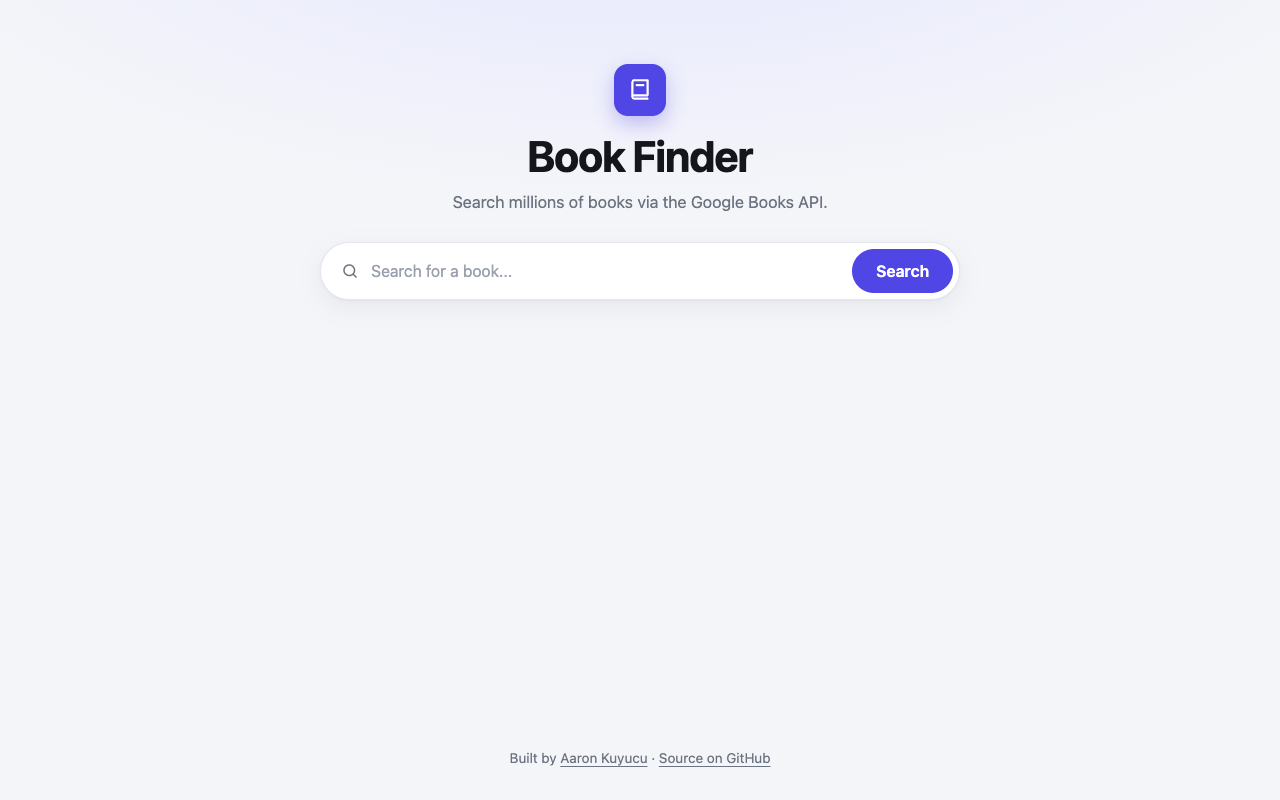
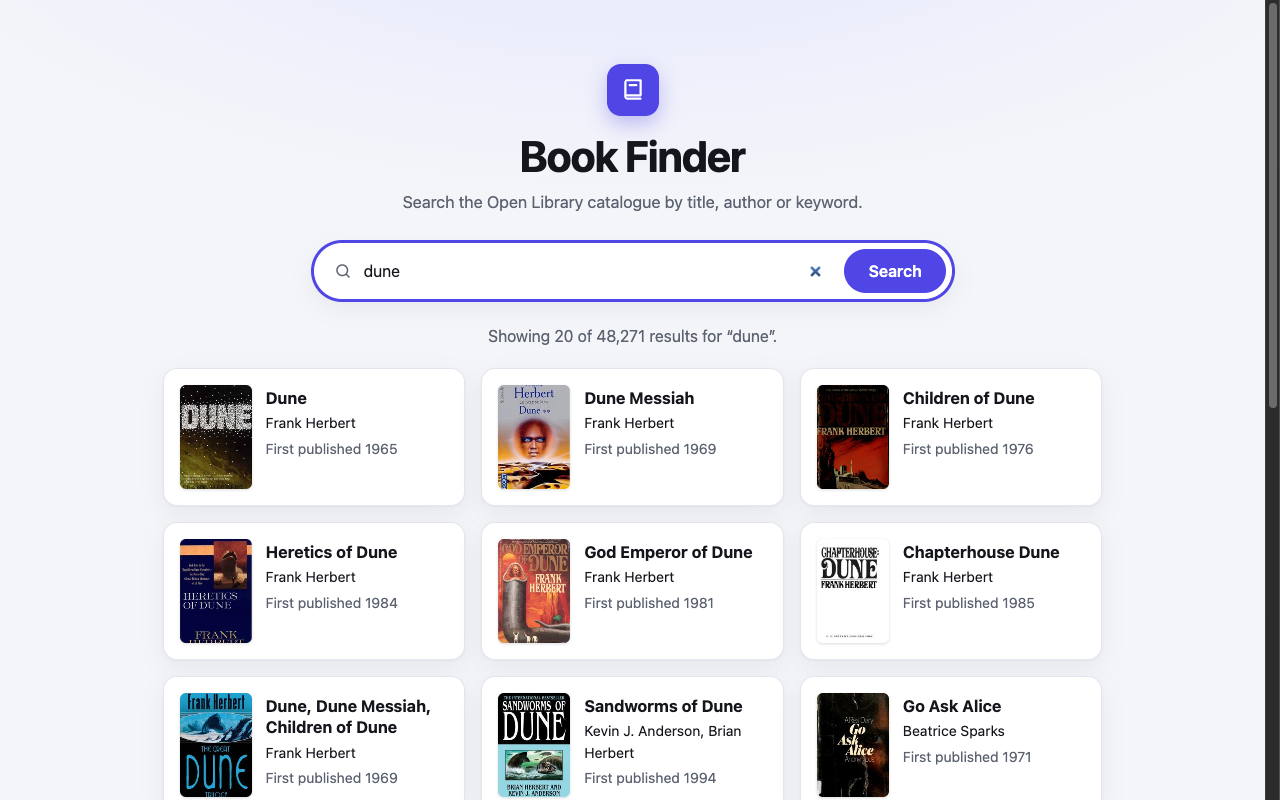
docs: describe the Open Library version
Removes the claim that the API key is restricted to this site, corrects
the local run instructions (ES modules need a server) and replaces the
screenshot with one that shows results.

Refs #4

diff --git a/README.md b/README.md
@@ -1,50 +1,64 @@
 # Book Finder
 
-A small web app that searches books through the Google Books API and shows title, author, cover and a short description.
+A small web app that searches the [Open Library](https://openlibrary.org/) catalogue and shows title, authors, first publication year and cover for each match.
 
-![Screenshot of Book Finder](docs/screenshot.png)
+![Book Finder showing results for "dune"](docs/screenshot.png)
 
 ## Features
 
-- Search by title or keyword, with a message for empty input
-- Result cards with title, authors, cover and the first 150 characters of the description
-- "No books found" state and error handling around the request
+- Search by title, author or keyword; the button and the Enter key both submit the form
+- Result cards with cover, title (linked to the book's Open Library page), authors and first publication year
+- Up to 20 results per search, with the total number of matches above the list
+- Separate messages for input that is too short, no matches, and a failed or timed-out request
 - Responsive layout for desktop and phone
 
 ## Tech
 
-- HTML, CSS, vanilla JavaScript
-- `fetch` with `async`/`await`
-- Google Books API (`volumes` endpoint)
+- HTML, CSS and JavaScript (ES modules), no framework and no dependency
+- `fetch` with `async`/`await`, `AbortController` for timeouts and for replacing a running search
+- [Open Library Search API](https://openlibrary.org/dev/docs/api/search) for the data, [Open Library Covers API](https://openlibrary.org/dev/docs/api/covers) for the images. Neither needs an API key.
 
 ## How to run
 
 Open the live version: **[aaronkuy.github.io/book-finder](https://aaronkuy.github.io/book-finder/)**
 
-Or run it locally. There is no build step and no dependency:
+Or run it locally. There is no build step, but the page loads its script as an ES module, and browsers do not load modules from `file://`. Serve the folder instead:
 
 ```bash
 git clone https://github.com/aaronkuy/book-finder.git
 cd book-finder
-open index.html        # macOS; on Linux use xdg-open, on Windows start
+python3 -m http.server 8000
+# then open http://localhost:8000
 ```
 
-## What I learned
+## Tests
 
-- My first work with an external API: building the request URL, parsing JSON, handling missing fields
-- `async`/`await` and `try`/`catch` around network calls
-- Rendering a list of results into the DOM
+`books.js` holds the parts that do not need a browser: building the request URL and mapping a search result to what a card shows. They are tested with Node's built-in test runner (Node 20 or newer):
 
-## What I'd do next
+```bash
+npm test
+```
 
-- Encode the query with `encodeURIComponent` and add paging
-- Show a loading state while the request runs
-- Build result cards with DOM methods instead of `innerHTML`
+The same command runs in GitHub Actions on every pull request. The DOM code in `script.js` has no automated tests.
+
+## How it works
+
+- `index.html`: a search `<form>`, one line for status messages, one for errors, and an empty list for the results
+- `books.js`: `buildSearchUrl()` encodes the search term with `URLSearchParams` and asks only for the fields the page shows; `toBook()` gives every optional field a fallback
+- `script.js`: sends the request, checks `response.ok`, and builds the cards with `createElement` and `textContent`, so catalogue text is never interpreted as HTML
+
+## Limitations
+
+- Only the first 20 matches are shown; there is no paging
+- The search term goes to Open Library as it is. A few inputs that Open Library's query syntax rejects (for example a lone `AND`) end in the generic error message
+- Open Library is a free service and is sometimes slow. A request is given up after 15 seconds
 
 ## Notes
 
-Uses a client-side API key restricted to this site; for production the key would sit behind a small proxy. Searching from a local `file://` copy is therefore blocked by Google; use the live version.
+Until November 2026 this app used the Google Books API with an API key in the client-side code. A key in code that ships to the browser is public, so the app was moved to a data source that needs none. The old keys are still visible in the commit history.
+
+Book data and covers come from Open Library, a project of the Internet Archive.
 
 ## License
 
-See [LICENSE](LICENSE).
+[MIT](LICENSE)
